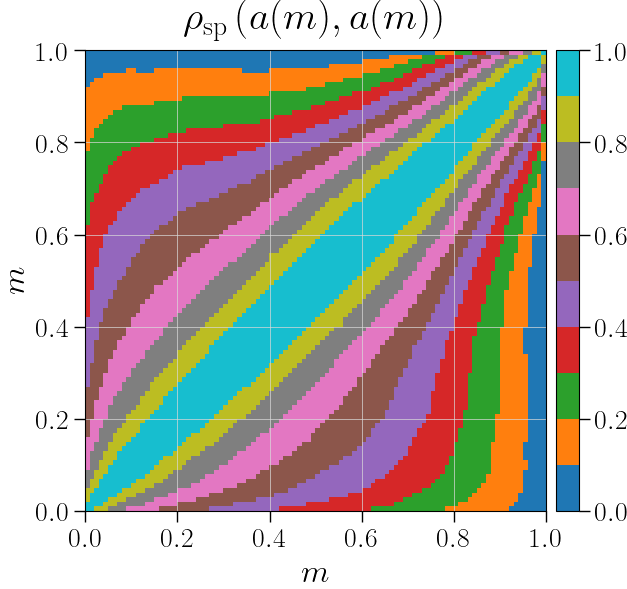
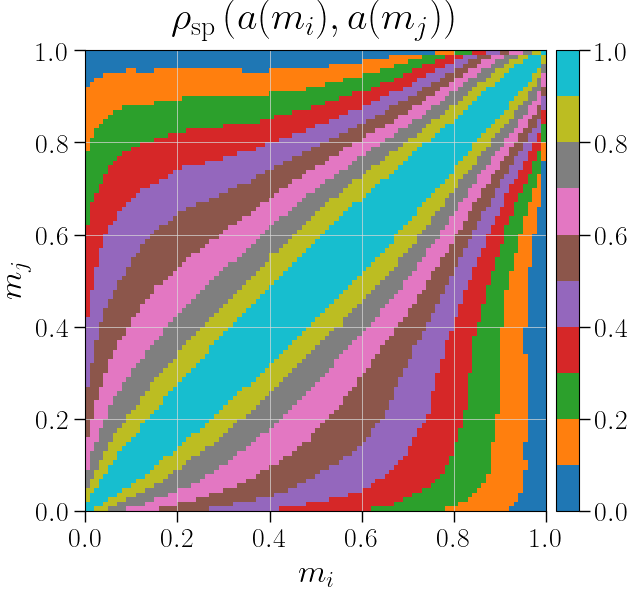
add indices to matrix

Changed region(s): [[0.2727, 0.0, 0.7273, 0.0611], [0.4848, 0.9474, 0.5455, 1.0], [0.0, 0.4584, 0.0606, 0.5195]]

diff --git a/bin/figures.py b/bin/figures.py
@@ -922,9 +922,9 @@ class CovarianceAm(Figure):
         fig1, ax = plt.subplots(1, 1)
         im = ax.imshow(corr, vmin=0, vmax=1, extent=(-0.01, 100, -0.01, 100))
 
-        ax.set_xlabel(r"$a$")
-        ax.set_ylabel(r"$a$")
-        ax.set_title(rf"${rho_latex}\left(m(a), m(a) \right)$", pad=15.0)
+        ax.set_xlabel(r"$a_{i}$")
+        ax.set_ylabel(r"$a_{j}$")
+        ax.set_title(rf"${rho_latex}\left(m(a_{{i}}), m(a_{{j}}) \right)$", pad=15.0)
 
         new_xticks = np.linspace(0, 100, 5)
         ax.set_xticks(ticks=new_xticks, labels=scale_bin_labels)
@@ -944,9 +944,9 @@ class CovarianceAm(Figure):
         fig2, ax = plt.subplots(1, 1)
         im = ax.imshow(corr, vmin=0, vmax=1, extent=(-0.01, 100, -0.01, 100))
 
-        ax.set_xlabel(r"$m$")
-        ax.set_ylabel(r"$m$")
-        ax.set_title(rf"${rho_latex}\left( a(m), a(m) \right)$", pad=15.0)
+        ax.set_xlabel(r"$m_{i}$")
+        ax.set_ylabel(r"$m_{j}$")
+        ax.set_title(rf"${rho_latex}\left( a(m_{{i}}), a(m_{{j}}) \right)$", pad=15.0)
         ax.set_xticks(ticks=ax.get_xticks()[1:], labels=mass_bin_labels)
         ax.set_yticks(ticks=ax.get_yticks()[1:], labels=mass_bin_labels)
 
